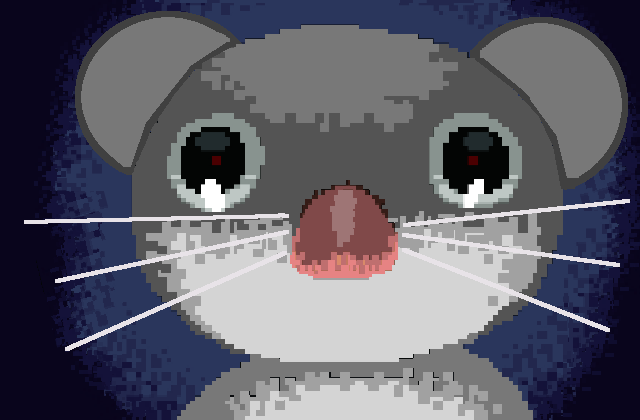
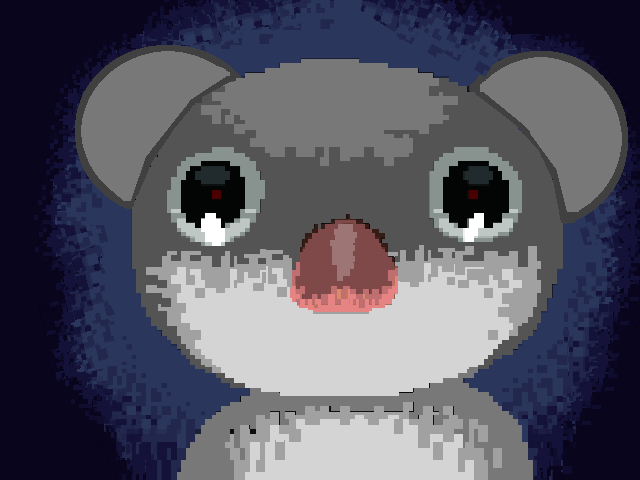
win scene lose scene setup, prize fully done

Changed region(s): [[0.0312, 0.0, 1.0, 0.9905], [0.9375, 0.7119, 0.9688, 0.7429], [0.1875, 0.9595, 0.2188, 0.9905]]

diff --git a/game.py b/game.py
@@ -46,6 +46,7 @@ class Game:
             '1': load_image('endScene/1.png'),
             '2': load_image('endScene/2.png'),
             '3': load_image('endScene/3.png'),
+            '4': load_image('endScene/4.png'),
             'clouds': load_images('clouds'),
             'catnip': load_image('catnipUI.png'),
             'catnip/idle': Animation(load_images('entities/catnip/catnip')),
@@ -102,7 +103,8 @@ class Game:
         self.screenshake = 0
 
         self.story_timer = 0 # 600
-        self.bad_ending = -1 # 600
+        self.bad_ending = 1000
+        self.win_delay = 100
 
 
     def load_level(self, map_id):
@@ -138,7 +140,7 @@ class Game:
             elif spawner['variant'] == 2:
                 self.trap.append(Trap(self, spawner['pos'], (15, 17)))
             elif spawner['variant'] == 3:
-                self.prize.append(Prize(self, spawner['pos'], (17, 9)))
+                self.prize.append(Prize(self, spawner['pos'], (17, 100)))
             else:
                 self.catnip.append(CatnipRecharge(self, spawner['pos'], (16, 16)))
 
@@ -189,33 +191,31 @@ class Game:
                         sys.exit()
                 self.story_timer -= 1 
 
-                if self.prize[0].dead:
-                    if self.bad_ending > 400:
-                        self.screen.blit(self.assets['1'], (0,0)) # no outline   # change to noot noot
+            elif self.prize[0].dead == 1: # when prize = 1 --> Lose
+                if self.bad_ending > 700:
+                    self.screen.blit(self.assets['1'], (0,0)) # no outline   # change to noot noot
 
-                    elif self.bad_ending > 200:
-                        self.screen.blit(self.assets['2'], (0,0)) # no outline
+                elif self.bad_ending > 350:
+                    self.screen.blit(self.assets['2'], (0,0)) # no outline
+                else:
+                    # clear the screen for new image generation in loop
+                    self.screen.blit(self.assets['3'], (0,0)) # no outline
+                
+                if self.bad_ending == 0: # end game kick people out
+                    self.load_level(self.level)
 
-                    else:
-                        # clear the screen for new image generation in loop
-                        self.screen.blit(self.assets['3'], (0,0)) # no outline
-                    
-                    for event in pygame.event.get():
-                        if event.type == pygame.QUIT: # have to code the window closing
-                            pygame.quit()
-                            sys.exit()
-                    self.bad_ending -= 1 
-
-                    if self.bad_ending == 0: # end game kick people out
+                for event in pygame.event.get():
+                    if event.type == pygame.QUIT: # have to code the window closing
                         pygame.quit()
                         sys.exit()
-
-                if self.prize[0] == 2:
-                    self.screen.blit(self.assets['story1'], (0,0)) # no outline       # change to you win! nice picture with mouses together
-                    for event in pygame.event.get():
-                        if event.type == pygame.QUIT: # have to code the window closing
-                            pygame.quit()
-                            sys.exit()
+                self.bad_ending -= 1 
+            
+            elif self.prize[0].dead == 0 and not self.win_delay:  # when prize = 0 --> win
+                self.screen.blit(self.assets['4'], (0,0)) # no outline       # change to you win! nice picture with mouses together
+                for event in pygame.event.get():
+                    if event.type == pygame.QUIT: # have to code the window closing
+                        pygame.quit()
+                        sys.exit()
 
             else:
                 # clear the screen for new image generation in loop
@@ -294,6 +294,19 @@ class Game:
                                 self.sparks.append(Spark(self.player.rect().center, angle, 2 + random.random())) 
                                 # on death particles
                                 self.particles.append(Particle(self, 'particle', self.player.rect().center, velocity=[math.cos(angle +math.pi) * speed * 0.5, math.sin(angle * math.pi) * speed * 0.5], frame=random.randint(0, 7)))
+                    
+                    if self.prize[0].rect().collidepoint(projectile[0]): # cat hits traps, code that activates bad ending
+                        self.prize[0].lower = 1 # lower prize
+                        self.sfx['hit'].play()
+                        self.screenshake = max(16, self.screenshake)  # apply screenshake, larger wont be overrided by a smaller screenshake
+                        for i in range(10): # when projectile hits player
+                            # on death sparks
+                            angle = random.random() * math.pi * 2 # random angle in a circle
+                            speed = random.random() * 5
+                            self.sparks.append(Spark(self.player.rect().center, angle, 2 + random.random())) 
+                            # on death particles
+                            self.particles.append(Particle(self, 'particle', self.player.rect().center, velocity=[math.cos(angle + math.pi) * speed * 0.5, math.sin(angle * math.pi) * speed * 0.5], frame=random.randint(0, 7)))
+
 
                 # render the enemies
                 for enemy in self.trap.copy():
@@ -314,7 +327,7 @@ class Game:
                                 self.particles.append(Particle(self, 'particle', self.player.rect().center, velocity=[math.cos(angle + math.pi) * speed * 0.5, math.sin(angle * math.pi) * speed * 0.5], frame=random.randint(0, 7)))
 
                     if self.prize[0].rect().colliderect(enemy): # cat hits traps, code that activates bad ending
-                        self.prize[0].dead += 1
+                        self.prize[0].dead = True # prize dies
                         self.sfx['hit'].play()
                         self.screenshake = max(16, self.screenshake)  # apply screenshake, larger wont be overrided by a smaller screenshake
                         for i in range(10): # when projectile hits player
@@ -332,6 +345,9 @@ class Game:
                     kill =  enemy.update(self.tilemap, (0,0))
                     enemy.render(self.display_black, offset=render_scroll) # change outline here
                     # add mechanics later
+
+                self.prize[0].render(self.display_2, offset=render_scroll) # render prize
+                pygame.draw.rect(self.display_black, (255, 0, 0), (self.prize[0].pos[0] - render_scroll[0], self.prize[0].pos[1] - render_scroll[1] + 30, self.prize[0].size[0], self.prize[0].size[1]), 3)
 
 
                 # spark affect

diff --git a/scripts/entities.py b/scripts/entities.py
@@ -349,24 +349,39 @@ class Prize(PhysicsEntity):
         (game, position: tuple, size)
         '''
         super().__init__(game, 'prize', pos, size)
-        self.dead = 0
+        self.dead = -1
+        self.lower = 0
+        self.start = 0
 
 
     def update(self, tilemap, movement=(0,0)):
-        if abs(self.game.player.dashing) >= 50:
-            if self.rect().colliderect(self.game.player.rect()): # if enemy hitbox collides with player
-                self.game.screenshake = max(16, self.game.screenshake)  # apply screenshake
-                self.game.sfx['hit'].play()
-                for i in range(30): # enemy death effect
-                    # on death sparks
-                    angle = random.random() * math.pi * 2 # random angle in a circle
-                    speed = random.random() * 5
-                    self.game.sparks.append(Spark(self.rect().center, angle, 2 + random.random())) 
-                    # on death particles
-                    self.game.particles.append(Particle(self.game, 'confetti', self.rect().center, velocity=[math.cos(angle +math.pi) * speed * 0.5, math.sin(angle * math.pi) * speed * 0.5], frame=random.randint(0, 7)))
-                self.game.sparks.append(Spark(self.rect().center, 0, 5 + random.random())) # left
-                self.game.sparks.append(Spark(self.rect().center, math.pi, 5 + random.random())) # right
-                return True # [**]
+        if self.rect().colliderect(self.game.player.rect()): # if enemy hitbox collides with player
+            self.game.screenshake = max(16, self.game.screenshake)  # apply screenshake
+            self.dead = 0 # false
+            self.start = 1 # activate end scene countndown
+            for i in range(30): # enemy death effect
+                # on death sparks
+                angle = random.random() * math.pi * 4 # random angle in a circle
+                speed = random.random() * 8
+                self.game.sparks.append(Spark(self.rect().center, angle, 2 + random.random())) 
+                # on death particles
+                self.game.particles.append(Particle(self.game, 'confetti', self.rect().center, velocity=[math.cos(angle +math.pi) * speed * 0.5, math.sin(angle * math.pi) * speed * 0.5], frame=random.randint(0, 7)))
+            self.game.sparks.append(Spark(self.rect().center, 0, 5 + random.random())) # left
+            self.game.sparks.append(Spark(self.rect().center, math.pi, 5 + random.random())) # right]
+
+        if self.lower == 1:   # if cat furball hits the rope
+            self.velocity[1] = -0.5
+
+        if self.start and  self.game.win_delay > 0:
+            self.game.win_delay -= 1
+    
+    def rect(self):
+        '''
+        creates a rectangle at the entitiies current postion
+        '''
+        return pygame.Rect(self.pos[0], self.pos[1] + 30, self.size[0], self.size[1])
+
+
     
 
 class CatnipRecharge(PhysicsEntity):
